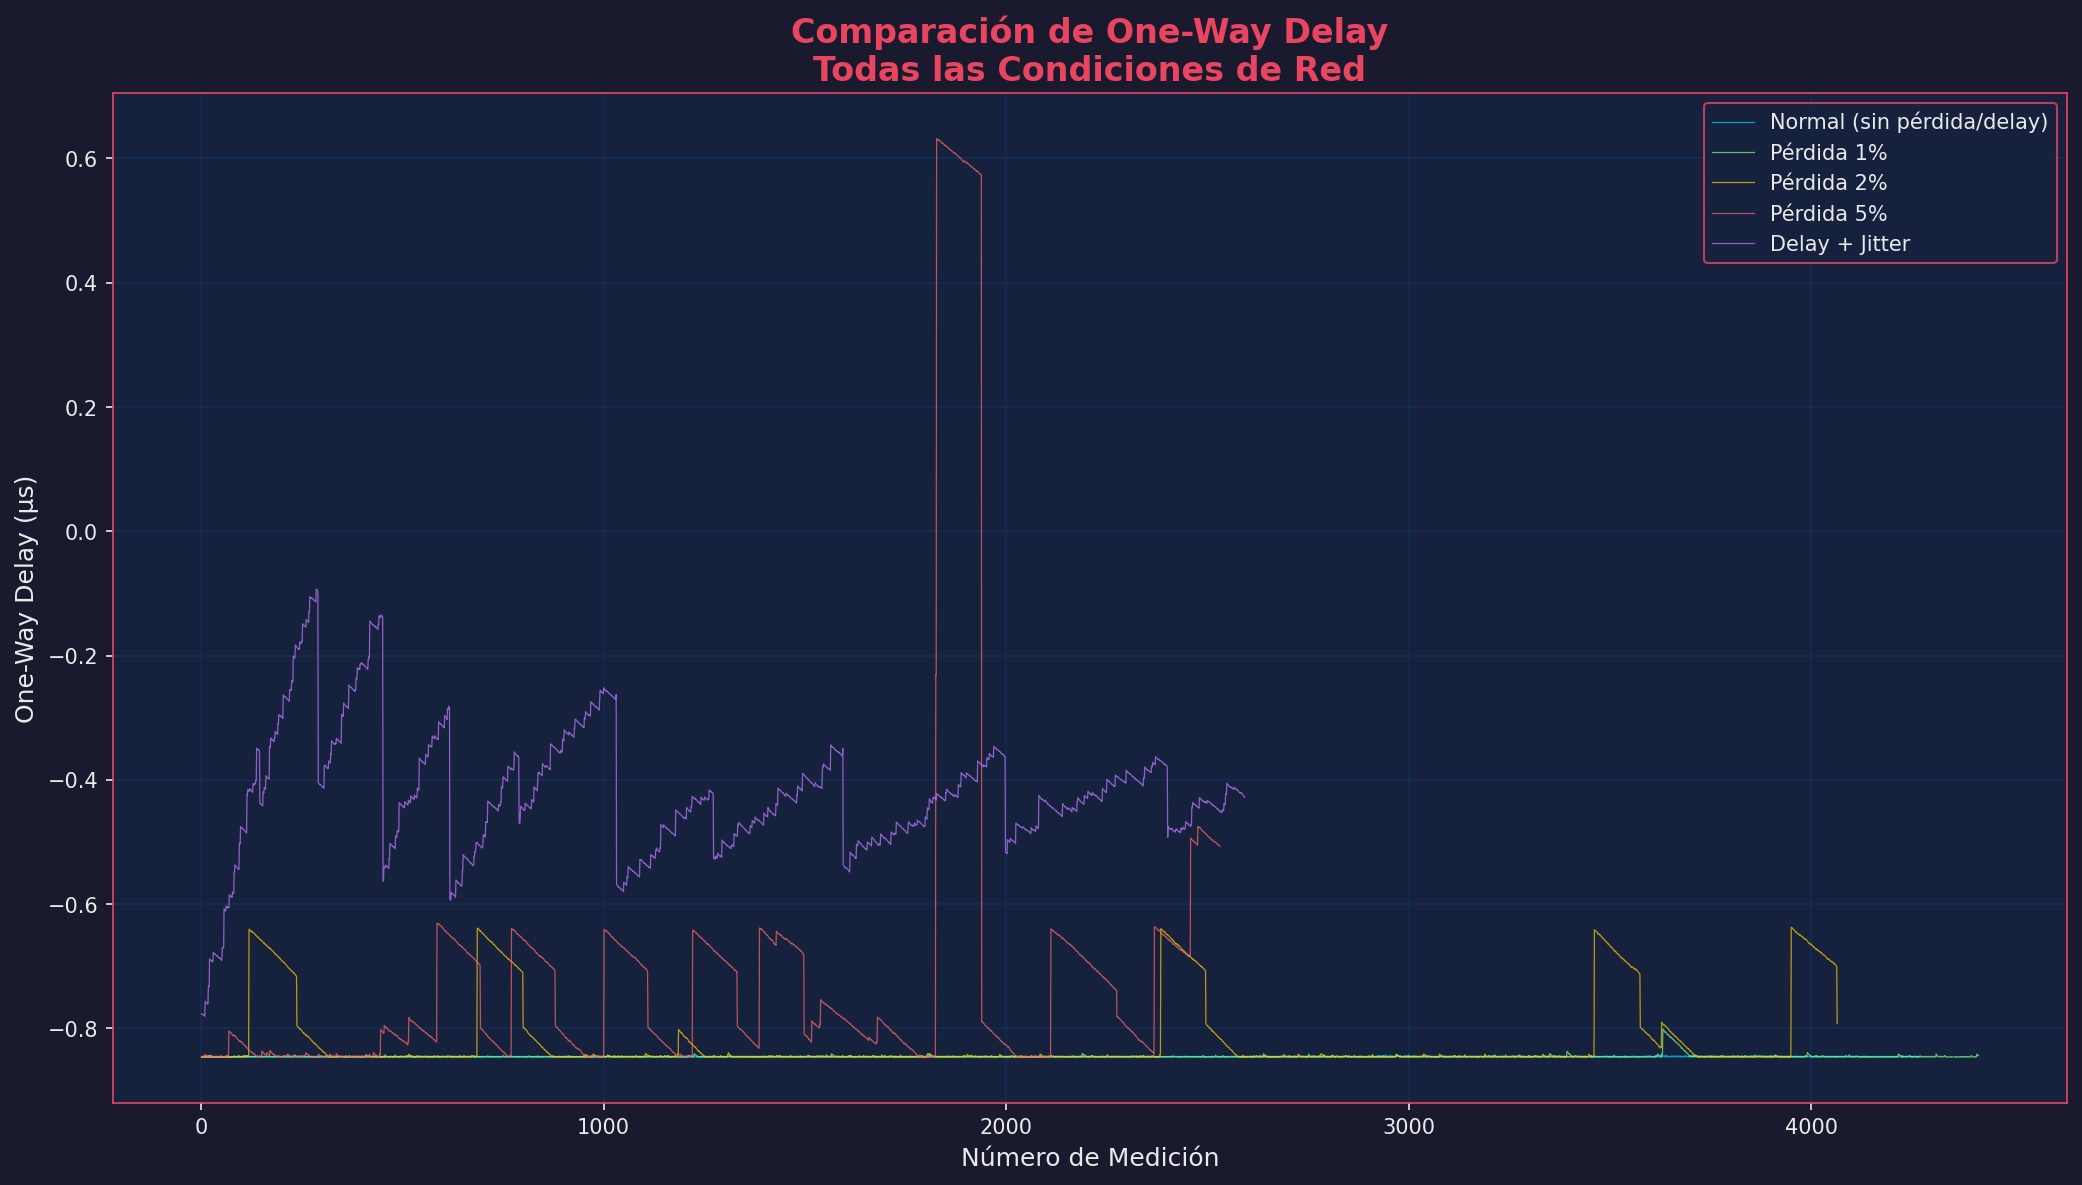
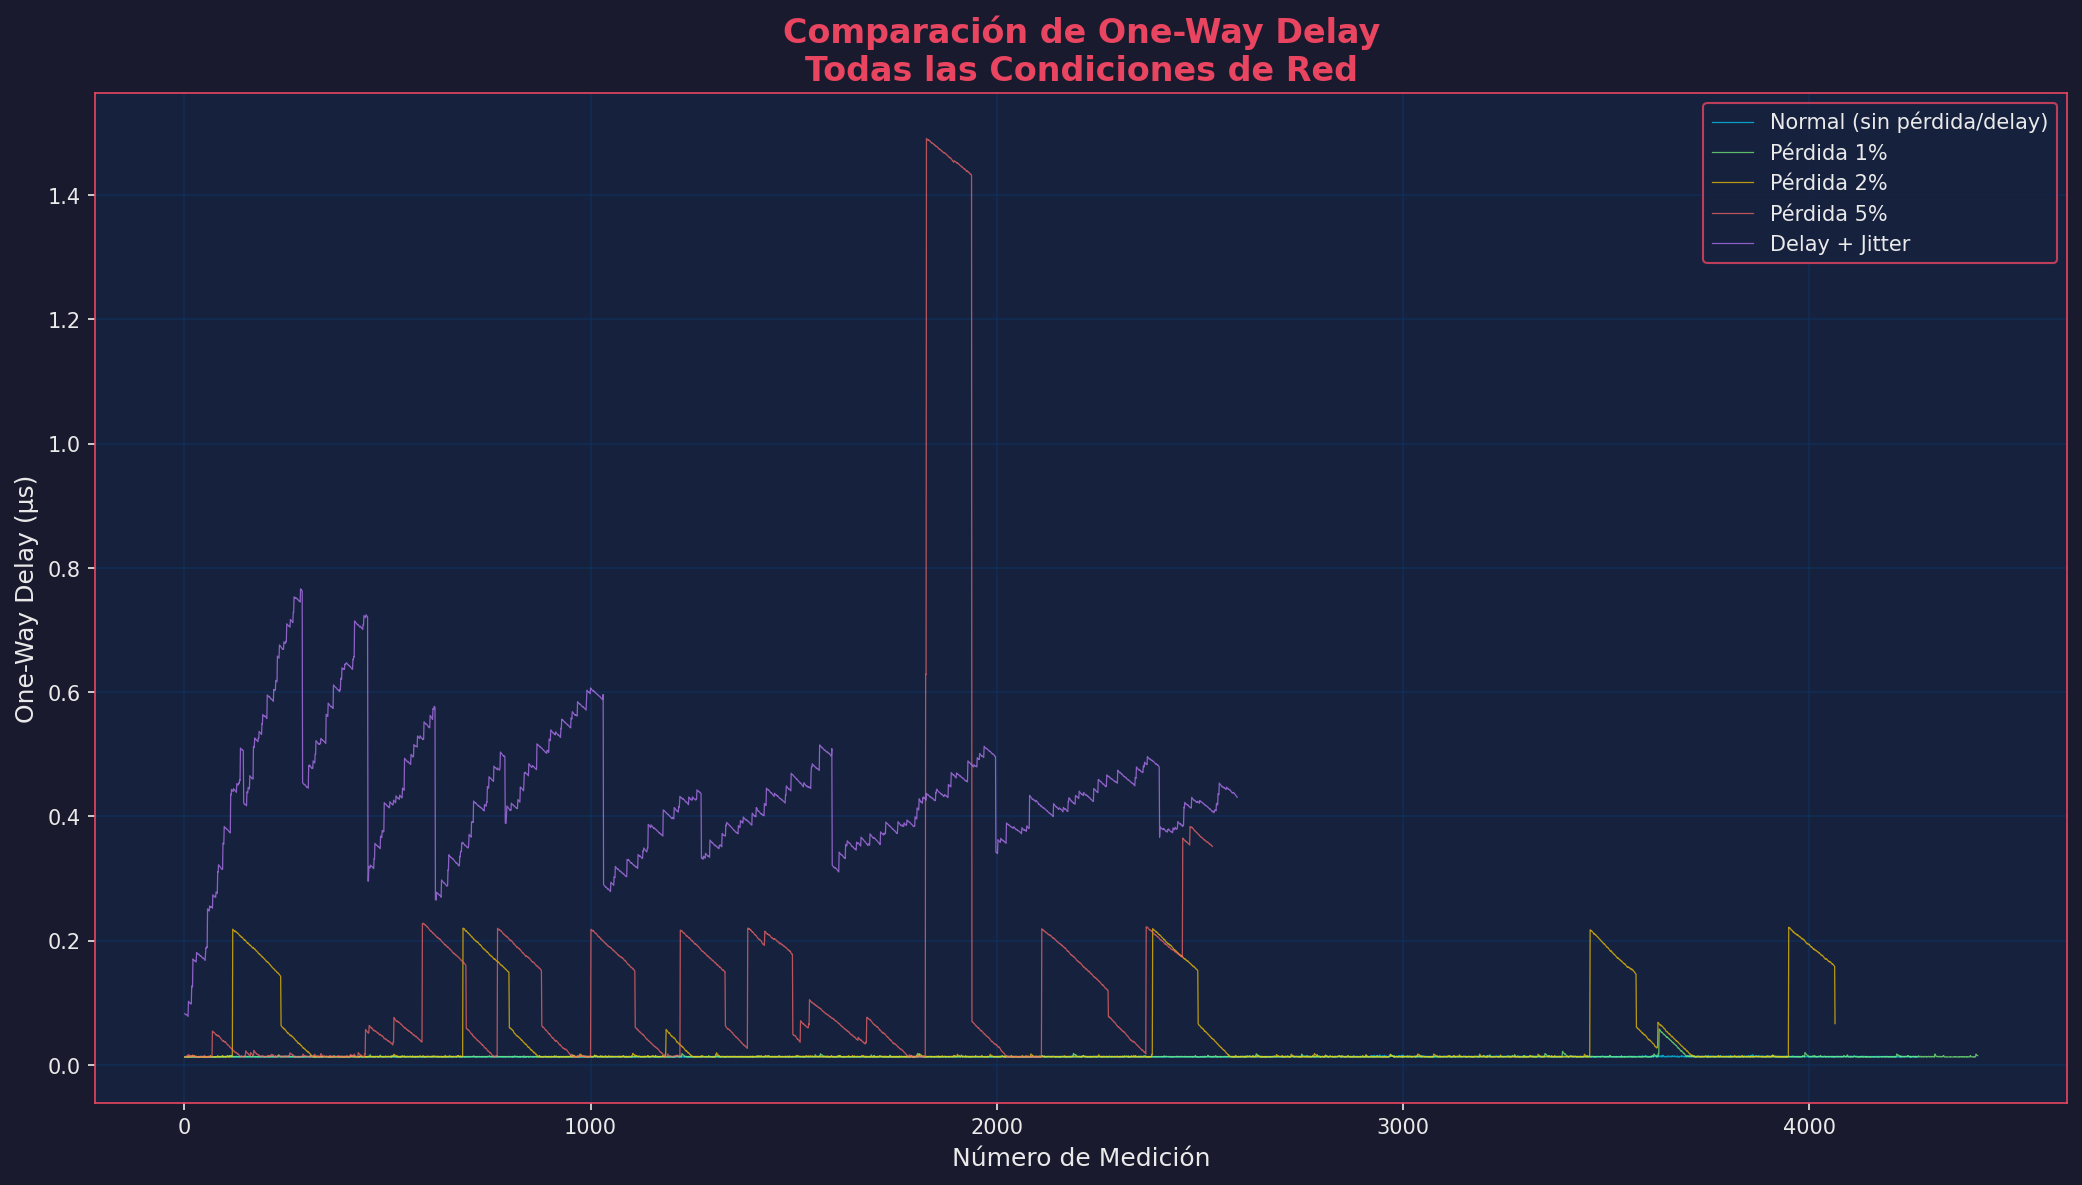
Arregle desfasaje de clocks en los graficos

diff --git a/plot_delay.py b/plot_delay.py
@@ -78,7 +78,9 @@ for i, (archivo, etiqueta) in enumerate(archivos.items()):
     if os.path.exists(filepath):
         measurements, delays = leer_csv(filepath)
         datos[archivo] = (measurements, delays)
-
+        delays = [
+            d + 0.859 for d in delays
+        ]  # Ajuste para corregir desfasaje de los relojes
         ax = axes[i]
         ax.plot(measurements, delays, color=colores[archivo], linewidth=0.5, alpha=0.8)
         ax.set_title(etiqueta, fontsize=12, fontweight="bold", color=colores[archivo])
@@ -121,6 +123,9 @@ fig2.patch.set_facecolor("#1a1a2e")
 for archivo, etiqueta in archivos.items():
     if archivo in datos:
         measurements, delays = datos[archivo]
+        delays = [
+            d + 0.859 for d in delays
+        ]  # Ajuste para corregir desfasaje de los relojes
         ax2.plot(
             measurements,
             delays,
